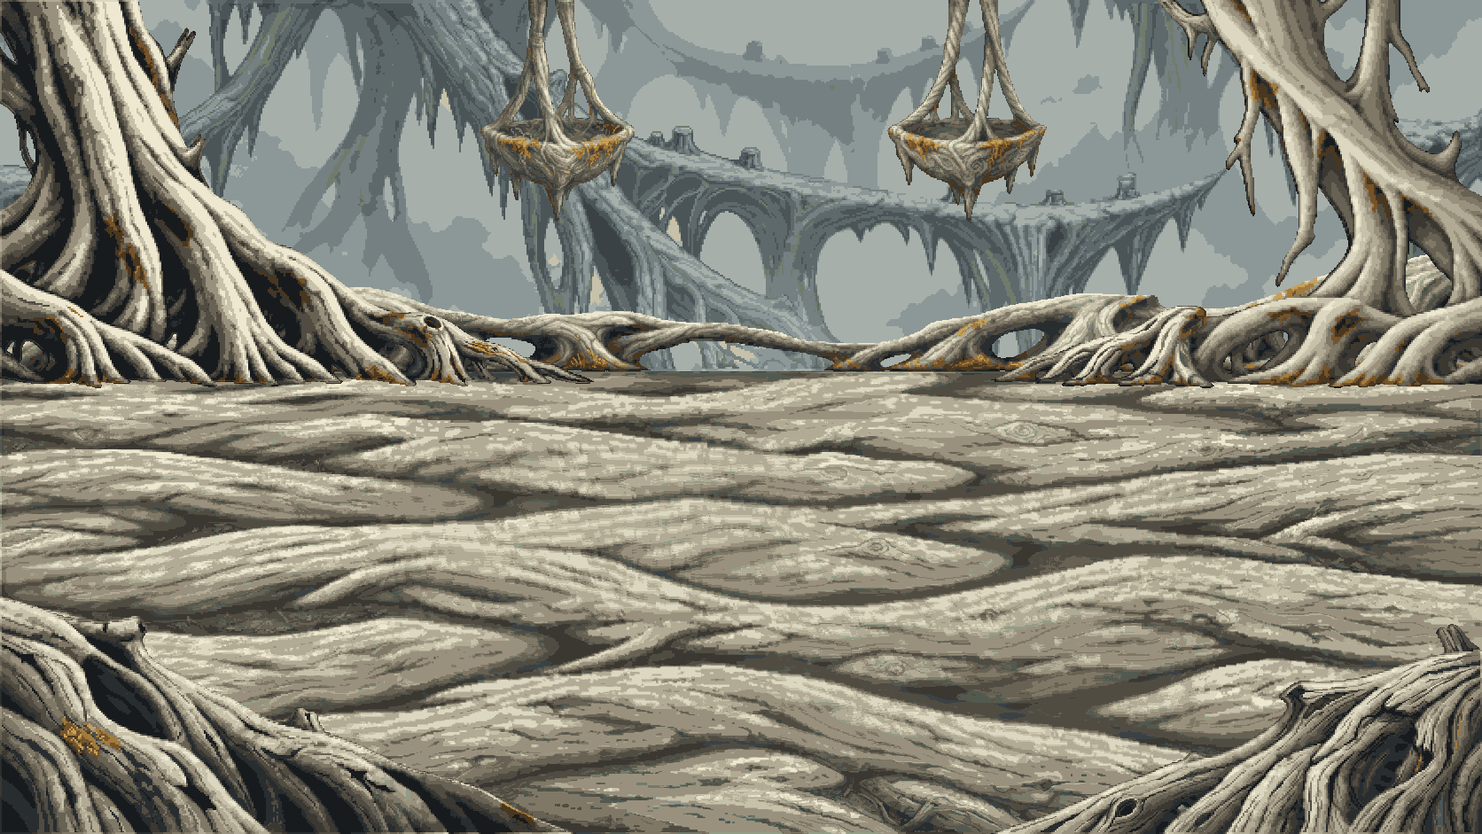
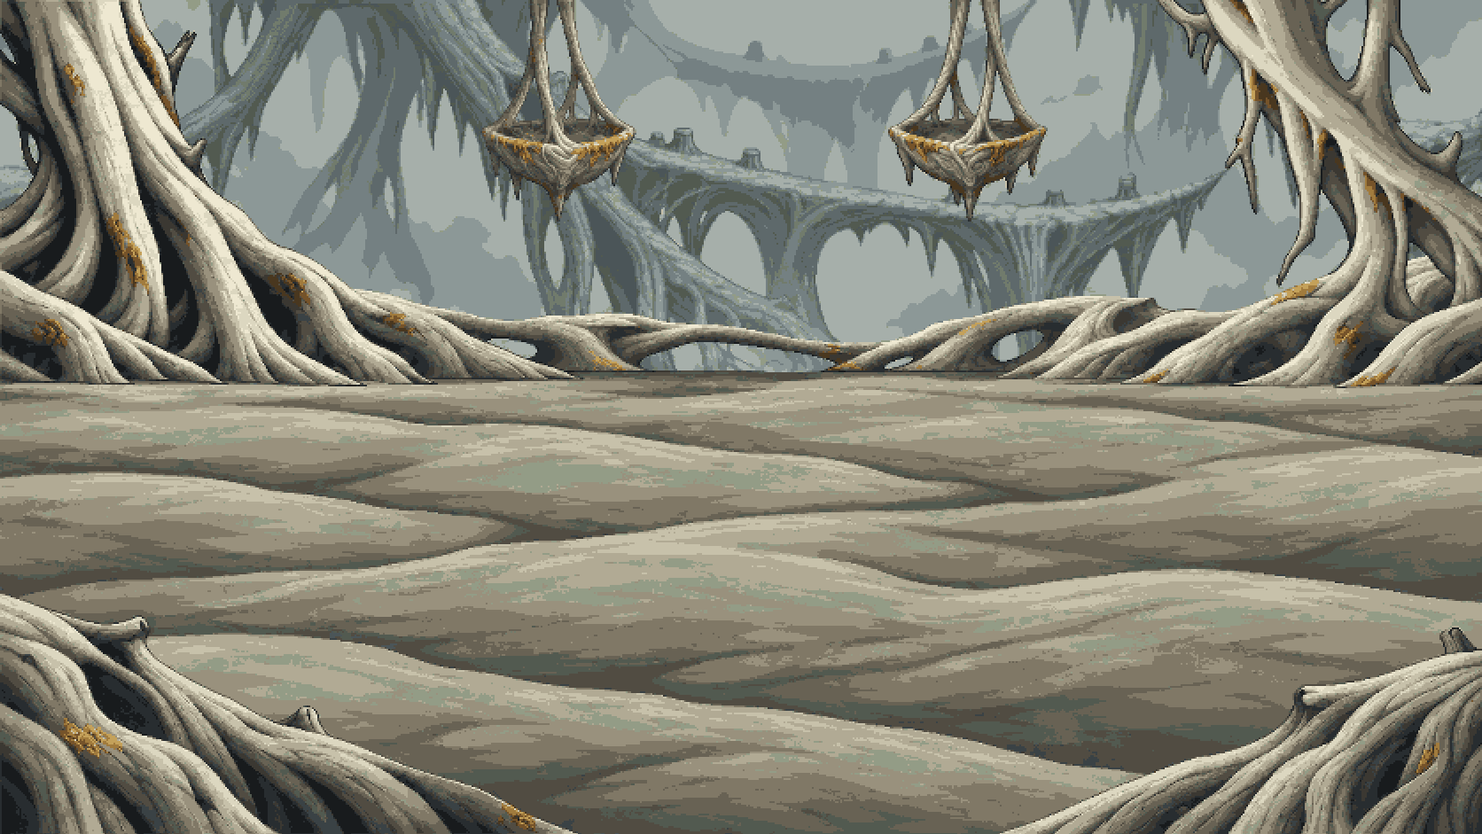
Atlas bosses all use roster bodies, eight new looks, regional door seals, act 3 4 5 8 floor cleanup
Made in Codex on the same worktree. All 45 atlas map bosses draw a roster body, 22 of them through wears; new base poses for two guardians, five league bosses and breach-venom; root door frames recoloured per region (68 PNG); act 3, 4 and 5 room pictures redrawn with calmer floors and act 8 without floor cloth.

diff --git a/data/atlas.js b/data/atlas.js
@@ -39,38 +39,38 @@ const ATLAS = Object.freeze({
     // [이름, 등급, 보스, 액트 지도(1~10, 그려 둔 지도를 다시 씀 — js/exploration-layouts.js), 보스 외형(액트 보스 0~9)] — 지역마다 칸 0~8 순서.
     nodes: Object.freeze({
         roots: [
-            ['이끼 낀 뿌리굴', 1, '뿌리굴 파수꾼', 1, 0], ['젖은 수맥', 2, '수맥의 탐식자', 5, 3],
-            ['균사 동굴', 4, '균사 여왕', 4, 5], ['가라앉은 뿌리길', 5, '늪뿌리 수문장', 3, 2],
-            ['부식된 저장고', 7, '부패 저장관', 6, 7], ['고목의 무덤', 9, '무덤 수호목', 7, 1],
+            ['이끼 낀 뿌리굴', 1, '검은 뿌리의 잔영', 1, 0], ['젖은 수맥', 2, '수맥의 탐식자', 5, 3],
+            ['균사 동굴', 4, '독무 정원의 포자어미', 4, 5], ['가라앉은 뿌리길', 5, '늪뿌리 수문장', 3, 2],
+            ['부식된 저장고', 7, '밑거름의 잔재', 6, 7], ['고목의 무덤', 9, '땅속 군주의 잔영', 7, 1],
             ['검은 수액 샘', 11, '검은 샘의 주인', 5, 8], ['심근 갱도', 13, '심근 파괴자', 1, 6],
             ['뿌리의 심장', 15, '뿌리 심장의 망령', 10, 9]
         ],
         trunk: [
-            ['껍질 틈새', 1, '틈새 사냥꾼', 7, 1], ['나이테 회랑', 3, '나이테 기록관', 4, 4],
-            ['옹이 요새', 4, '옹이 성주', 6, 6], ['송진 폭포', 6, '송진 거인', 7, 2],
-            ['벌레 먹은 통로', 8, '천공 여왕', 4, 5], ['쪼개진 줄기', 10, '쪼개진 기사', 7, 0],
+            ['껍질 틈새', 1, '틈새 사냥꾼', 7, 1], ['나이테 회랑', 3, '나이테를 엮는 잔영', 4, 4],
+            ['옹이 요새', 4, '미궁의 옹이 수호자', 6, 6], ['송진 폭포', 6, '길잃은 성핵 거신', 7, 2],
+            ['벌레 먹은 통로', 8, '천공 여왕', 4, 5], ['쪼개진 줄기', 10, '무딘 날의 잔향', 7, 0],
             ['수관 승강로', 12, '승강로 감시자', 3, 7], ['벼락 맞은 심재', 14, '벼락의 흔적', 8, 8],
             ['줄기의 옥좌', 16, '줄기 옥좌의 군주', 10, 9]
         ],
         canopy: [
-            ['바람 부는 우듬지', 2, '우듬지 매', 3, 3], ['새둥지 마을', 3, '둥지의 어미', 9, 1],
-            ['흔들다리', 4, '다리지기', 3, 0], ['구름 과수원', 5, '과수원 허수아비', 9, 4],
-            ['번개 가지', 8, '뇌운 정령', 8, 8], ['떠도는 잎섬', 9, '잎섬 방랑자', 3, 2],
-            ['별 맺힌 가지 끝', 12, '별가지 사수', 10, 6], ['폭풍 둥지', 13, '폭풍의 어미새', 8, 7],
+            ['바람 부는 우듬지', 2, '우듬지 매', 3, 3], ['새둥지 마을', 3, '둥지를 지키는 그리핀', 9, 1],
+            ['흔들다리', 4, '십자 회랑의 잔영', 3, 0], ['구름 과수원', 5, '나무꾼의 흐릿한 잔상', 9, 4],
+            ['번개 가지', 8, '뇌운 정령', 8, 8], ['떠도는 잎섬', 9, '떠도는 창공 거신', 3, 2],
+            ['별 맺힌 가지 끝', 12, '폭풍군단의 척후장', 10, 6], ['폭풍 둥지', 13, '폭풍의 어미새', 8, 7],
             ['하늘 꼭대기 제단', 16, '꼭대기 제사장', 5, 9]
         ],
         garden: [
-            ['무너진 온실', 1, '온실 정원사', 2, 2], ['가시덤불 미로', 2, '덤불 왕', 4, 5],
-            ['시든 분수대', 3, '분수의 망령', 6, 3], ['불탄 과수원', 6, '잿불 과수지기', 9, 4],
-            ['석상 정원', 7, '석상 지휘관', 6, 6], ['잿빛 화원', 10, '잿빛 화원사', 2, 0],
-            ['봉인된 식물원', 11, '식물원 관리자', 4, 7], ['불꽃 덩굴 성벽', 14, '덩굴 성벽의 기사', 6, 8],
+            ['무너진 온실', 1, '정원사의 흐린 메아리', 2, 2], ['가시덤불 미로', 2, '덤불 왕', 4, 5],
+            ['시든 분수대', 3, '분수의 망령', 6, 3], ['불탄 과수원', 6, '과수원의 불씨군주', 9, 4],
+            ['석상 정원', 7, '칼날 회랑의 석상 수호자', 6, 6], ['잿빛 화원', 10, '시든 화원의 갉는 자', 2, 0],
+            ['봉인된 식물원', 11, '빛바랜 관측자의 잔영', 4, 7], ['불꽃 덩굴 성벽', 14, '덩굴 성벽의 기사', 6, 8],
             ['정원사의 무덤', 15, '첫 정원사', 6, 9]
         ],
         sanctum: [
-            ['서리 내린 참배길', 2, '참배길 순례자', 5, 1], ['얼어붙은 회랑', 3, '회랑 파수병', 4, 3],
-            ['고요한 예배당', 4, '침묵의 사제', 5, 4], ['수정 납골당', 5, '납골당 지기', 4, 2],
+            ['서리 내린 참배길', 2, '참배길 순례자', 5, 1], ['얼어붙은 회랑', 3, '서리여제의 잔상', 4, 3],
+            ['고요한 예배당', 4, '빛바랜 태양의 사제', 5, 4], ['수정 납골당', 5, '납골당의 시간 파수꾼', 4, 2],
             ['봉인 서고', 6, '서고 사서', 4, 5], ['빙결 재판정', 9, '빙결 재판관', 8, 6],
-            ['잠든 수도원', 10, '수도원장', 5, 0], ['서리 왕관의 전당', 13, '서리 왕관', 10, 8],
+            ['잠든 수도원', 10, '잠든 삼원 제단', 5, 0], ['서리 왕관의 전당', 13, '서리 왕관', 10, 8],
             ['성소의 잠든 눈', 14, '잠든 눈의 수호자', 8, 9]
         ]
     }),
@@ -192,11 +192,11 @@ const ATLAS = Object.freeze({
     // 지역 수호자: 지역의 가장 안쪽 노드(칸 7 · 8)와 이어진 투기장. [보스 이름, 처치마다 주는 정점 파편(뿌리 입장권, null = 가장 적은 것), 보스 외형].
     // 수호자 지도석은 그 지역 13등급 이상 지도의 보스가 떨어뜨린다(수호자 노드가 열려 있을 때).
     guardians: Object.freeze({
-        roots: Object.freeze(['수호자 「검은 뿌리」', 'uberRootTicketChaos', 9]),
-        trunk: Object.freeze(['수호자 「나이테 왕」', null, 7]),
-        canopy: Object.freeze(['수호자 「폭풍 날개」', 'uberRootTicketStorm', 8]),
-        garden: Object.freeze(['수호자 「잿불 정원사」', 'uberRootTicketFlame', 4]),
-        sanctum: Object.freeze(['수호자 「서리 눈」', 'uberRootTicketFrost', 3])
+        roots: Object.freeze(['수호자 「검은 뿌리」', 'uberRootTicketChaos', 9, 'guardian-roots']),
+        trunk: Object.freeze(['수호자 「나이테 왕」', null, 7, 'guardian-trunk']),
+        canopy: Object.freeze(['수호자 「폭풍 날개」', 'uberRootTicketStorm', 8, 'guardian-canopy']),
+        garden: Object.freeze(['수호자 「잿불 정원사」', 'uberRootTicketFlame', 4, 'guardian-garden']),
+        sanctum: Object.freeze(['수호자 「서리 눈」', 'uberRootTicketFrost', 3, 'guardian-sanctum'])
     }),
     guardianRules: Object.freeze({ tier: 16, minTier: 13, dropChance: 0.15, hpMul: 2.5, damageMul: 1.3, radius: 9 }),
     // 정점: 뿌리 입장권 4종을 하나씩 바쳐 여는 세계수의 그림자(3단계 보스). 처치마다 씨앗 하나(최대 4).

diff --git a/data/stage-regions.js b/data/stage-regions.js
@@ -15,7 +15,7 @@
 //           2026-10-30 액트 2~10은 PixelLab Pro로 다시 그린 묶음(재질 A02~A10, 정예와 보스 방 그림)이다(--act-rework).
 const STAGE_REGIONS = Object.freeze({
     path: 'assets/stage-scenes/regions/',
-    version: 'bc1e50c714',
+    version: '59193e8549',
     fit: Object.freeze({ width: 1280, height: 720, floorBottom: 536, margin: 192 }),
     families: Object.freeze({
         F01: Object.freeze({
@@ -85,13 +85,13 @@ const STAGE_REGIONS = Object.freeze({
     regions: Object.freeze({
         'act-02': Object.freeze({ name: '액트 2, 가지치기의 중정', width: 1672, height: 941, ground: 392, door: 0.5, family: 'A02', sky: '#90774e', earth: '#534331', normal: Object.freeze([0, 6]), elite: Object.freeze([2, 0]), boss: Object.freeze([3]), bossSide: 'east', rooms: Object.freeze({ elite: 'act-02-elite', boss: 'act-02-boss' }) }),
         'rift-past': Object.freeze({ name: '시간의 균열, 과거', width: 1672, height: 941, ground: 392, door: 0.5, family: 'F01', sky: '#7a5f44', earth: '#2c2724', normal: Object.freeze([0, 6]), elite: Object.freeze([2, 0]), boss: Object.freeze([3]), bossSide: 'east' }),
-        'act-03': Object.freeze({ name: '액트 3, 허공뿌리 현수림', width: 1672, height: 941, ground: 418, door: 0.5, family: 'A03', sky: '#838984', earth: '#6a665a', normal: Object.freeze([1, 6]), elite: Object.freeze([2, 0]), boss: Object.freeze([]), bossSide: 'east', rooms: Object.freeze({ elite: 'act-03-elite', boss: 'act-03-boss' }) }),
-        'act-04': Object.freeze({ name: '액트 4, 갈림뿌리 미궁', width: 1671, height: 941, ground: 392, door: 0.27, family: 'A04', sky: '#555246', earth: '#454139', normal: Object.freeze([1, 6]), elite: Object.freeze([2, 0]), boss: Object.freeze([]), bossSide: 'east', rooms: Object.freeze({ elite: 'act-04-elite', boss: 'act-04-boss' }) }),
-        'act-05': Object.freeze({ name: '액트 5, 지주근의 침묵 성소', width: 1672, height: 941, ground: 398, door: 0.62, family: 'A05', sky: '#62516b', earth: '#5b5661', normal: Object.freeze([0, 6]), elite: Object.freeze([2, 1]), boss: Object.freeze([]), bossSide: 'west', rooms: Object.freeze({ elite: 'act-05-elite', boss: 'act-05-boss' }) }),
+        'act-03': Object.freeze({ name: '액트 3, 허공뿌리 현수림', width: 1672, height: 941, ground: 418, door: 0.5, family: 'A03', sky: '#848a84', earth: '#5d5c52', normal: Object.freeze([1, 6]), elite: Object.freeze([2, 0]), boss: Object.freeze([]), bossSide: 'east', rooms: Object.freeze({ elite: 'act-03-elite', boss: 'act-03-boss' }) }),
+        'act-04': Object.freeze({ name: '액트 4, 갈림뿌리 미궁', width: 1671, height: 941, ground: 392, door: 0.27, family: 'A04', sky: '#605d4f', earth: '#4f4c42', normal: Object.freeze([1, 6]), elite: Object.freeze([2, 0]), boss: Object.freeze([]), bossSide: 'east', rooms: Object.freeze({ elite: 'act-04-elite', boss: 'act-04-boss' }) }),
+        'act-05': Object.freeze({ name: '액트 5, 지주근의 침묵 성소', width: 1672, height: 941, ground: 398, door: 0.62, family: 'A05', sky: '#55475f', earth: '#3b3743', normal: Object.freeze([0, 6]), elite: Object.freeze([2, 1]), boss: Object.freeze([]), bossSide: 'west', rooms: Object.freeze({ elite: 'act-05-elite', boss: 'act-05-boss' }) }),
         'act-06': Object.freeze({ name: '액트 6, 가지치기의 중정, 재방문', width: 1672, height: 941, ground: 392, door: 0.5, family: 'A06', sky: '#61666b', earth: '#413e3d', normal: Object.freeze([1, 7]), elite: Object.freeze([2, 1]), boss: Object.freeze([]), bossSide: 'east', rooms: Object.freeze({ elite: 'act-06-elite', boss: 'act-06-boss' }) }),
         'rift-future': Object.freeze({ name: '시간의 균열, 미래', width: 1672, height: 941, ground: 392, door: 0.5, family: 'F01', sky: '#594f5e', earth: '#2f2524', normal: Object.freeze([1, 7]), elite: Object.freeze([2, 1]), boss: Object.freeze([3]), bossSide: 'east' }),
         'act-07': Object.freeze({ name: '액트 7, 말라가는 큰 줄기', width: 1672, height: 941, ground: 453, door: 0.5, family: 'A07', sky: '#7c776b', earth: '#696358', normal: Object.freeze([0, 1]), elite: Object.freeze([2, 6]), boss: Object.freeze([]), bossSide: 'west', rooms: Object.freeze({ elite: 'act-07-elite', boss: 'act-07-boss' }) }),
-        'act-08': Object.freeze({ name: '액트 8, 끝없는 장막의 줄기', width: 1672, height: 941, ground: 405, door: 0.38, family: 'A08', sky: '#a69c9a', earth: '#6c6364', normal: Object.freeze([0]), elite: Object.freeze([2, 6]), boss: Object.freeze([]), bossSide: 'west', rooms: Object.freeze({ elite: 'act-08-elite', boss: 'act-08-boss' }) }),
+        'act-08': Object.freeze({ name: '액트 8, 끝없는 장막의 줄기', width: 1672, height: 941, ground: 405, door: 0.38, family: 'A08', sky: '#a69c9a', earth: '#786e6f', normal: Object.freeze([0]), elite: Object.freeze([2, 6]), boss: Object.freeze([]), bossSide: 'west', rooms: Object.freeze({ elite: 'act-08-elite', boss: 'act-08-boss' }) }),
         'act-09': Object.freeze({ name: '액트 9, 비탄의 교차', width: 1672, height: 941, ground: 449, door: 0.27, family: 'A09', sky: '#b9a579', earth: '#6e5c46', normal: Object.freeze([1, 6]), elite: Object.freeze([2, 0]), boss: Object.freeze([]), bossSide: 'east', rooms: Object.freeze({ elite: 'act-09-elite', boss: 'act-09-boss' }) }),
         'act-10': Object.freeze({ name: '액트 10, 합일의 차륜', width: 1672, height: 941, ground: 420, door: 0.2, family: 'A10', sky: '#908173', earth: '#b9a983', normal: Object.freeze([0]), elite: Object.freeze([2]), boss: Object.freeze([3]), bossSide: 'west', rooms: Object.freeze({ general: 'act-10-general', elite: 'act-10-elite' }) }),
         'trial-01': Object.freeze({ name: '1차 시련, 칼날 회랑', width: 1672, height: 941, ground: 449, door: 0.52, family: 'F04', sky: '#443637', earth: '#433331', normal: Object.freeze([0, 6]), elite: Object.freeze([2]), boss: Object.freeze([3]), bossSide: 'east' }),

diff --git a/data/atlas-endgame.js b/data/atlas-endgame.js
@@ -180,7 +180,7 @@ const ATLAS_ENDGAME = Object.freeze({
     // need는 제단 재료(잉걸 10)와 지도 수가 비슷하도록: 방이 제단보다 드물고(5~9 %), 방마다 조각 3 + 0.15 × 등급.
     leagues: Object.freeze([
         Object.freeze({
-            id: 'league_breach', room: 'breach', name: '공허 균열', boss: '공허를 여는 자', act: 8, bossAct: 7, ele: 'chaos', tier: 16,
+            id: 'league_breach', room: 'breach', name: '공허 균열', boss: '공허를 여는 자', act: 8, bossAct: 7, ele: 'chaos', tier: 16, bodyVisual: 'league_breach',
             how: '지도 속 공허 균열을 비우면 공허 조각을 줍니다.',
             item: 'voidSplinter', need: 12, shards: Object.freeze([3, 0.15]), hpMul: 3.5, damageMul: 1.45,
             stages: Object.freeze([
@@ -200,7 +200,7 @@ const ATLAS_ENDGAME = Object.freeze({
             rewards: Object.freeze([['venomStinger', 3], ['enchantedHoney', 1], ['pollen', 30]]), unique: '벌집 여왕의 명령'
         }),
         Object.freeze({
-            id: 'league_treasure', room: 'treasure', name: '보물 방', boss: '금고지기', act: 4, bossAct: 3, ele: 'phys', tier: 16,
+            id: 'league_treasure', room: 'treasure', name: '보물 방', boss: '금고지기', act: 4, bossAct: 3, ele: 'phys', tier: 16, bodyVisual: 'league_treasure',
             how: '지도 속 보물 방을 비우면 금고 열쇠 조각을 줍니다.',
             item: 'vaultKey', need: 12, shards: Object.freeze([3, 0.15]), hpMul: 3.5, damageMul: 1.45,
             stages: Object.freeze([
@@ -222,7 +222,7 @@ const ATLAS_ENDGAME = Object.freeze({
         // 루프 30 뒤 방 넷(2026-10-09): 그 방의 지역 투기장(act)과 원소, 18등급. 카드는 방이 나오는 루프(minLoop)부터 열린다
         // (js/atlas-endgame.js unlocked). 고유는 이 우두머리만 준다(data/items.js 리그 우두머리 고유).
         Object.freeze({
-            id: 'league_ember', room: 'emberField', name: '잿불 터', boss: '잿불 군주', act: 2, bossAct: 4, ele: 'fire', tier: 18,
+            id: 'league_ember', room: 'emberField', name: '잿불 터', boss: '잿불 군주', act: 2, bossAct: 4, ele: 'fire', tier: 18, bodyVisual: 'league_ember',
             how: '지도 속 잿불 터를 비우면 타다 남은 불씨를 줍니다.',
             item: 'emberCinder', need: 12, shards: Object.freeze([3, 0.15]), hpMul: 3.6, damageMul: 1.45,
             stages: Object.freeze([
@@ -232,7 +232,7 @@ const ATLAS_ENDGAME = Object.freeze({
             rewards: Object.freeze([['burningEmberBranch', 2], ['emberBranch', 8], ['goldenRule', 1]]), unique: '잿불 군주의 심장'
         }),
         Object.freeze({
-            id: 'league_sap', room: 'sapWound', name: '수액 상처', boss: '호박 거인', act: 7, bossAct: 6, ele: 'phys', tier: 18,
+            id: 'league_sap', room: 'sapWound', name: '수액 상처', boss: '호박 거인', act: 7, bossAct: 6, ele: 'phys', tier: 18, bodyVisual: 'league_sap',
             how: '지도 속 수액 상처를 비우면 굳은 수액 방울을 줍니다.',
             item: 'amberDrop', need: 12, shards: Object.freeze([3, 0.15]), hpMul: 3.6, damageMul: 1.45,
             stages: Object.freeze([
@@ -242,7 +242,7 @@ const ATLAS_ENDGAME = Object.freeze({
             rewards: Object.freeze([['catalystCrit', 2], ['catalystSummon', 1], ['sapBud', 2]]), unique: '호박에 갇힌 시간'
         }),
         Object.freeze({
-            id: 'league_withered', room: 'witheredGarden', name: '시든 정원', boss: '시든 꽃의 여왕', act: 1, bossAct: 0, ele: 'chaos', tier: 18,
+            id: 'league_withered', room: 'witheredGarden', name: '시든 정원', boss: '시든 꽃의 여왕', act: 1, bossAct: 0, ele: 'chaos', tier: 18, bodyVisual: 'league_withered',
             how: '지도 속 시든 정원을 비우면 시든 꽃잎을 줍니다.',
             item: 'witheredPetal', need: 12, shards: Object.freeze([3, 0.15]), hpMul: 3.6, damageMul: 1.45,
             stages: Object.freeze([

diff --git a/data/monster-stage-roster.js b/data/monster-stage-roster.js
@@ -12,11 +12,25 @@
 const MONSTER_STAGE_ROSTER = Object.freeze({
     path: 'assets/enemies/roster/',
     /** 그림 묶음의 지문: 그림을 이 값과 함께 불러, 칸이 바뀐 그림을 브라우저가 예전 것으로 쓰지 않게 한다. */
-    version: 'cerberus-body-20261029',
+    version: 'fef532140c',
     /** 제 새 그림이 아직 없어 다른 외형의 그림을 빌려 입는 외형(위습: 같은 속성의 새 그림). */
-    wears: Object.freeze({ 'meteor-shard': 'cosmos-star', 'meteor-melt': 'cosmos-ooze', 'meteor-sentinel': 'cosmos-sentinel', 'cerberus-head': 's6_beast_cerberus', 'cerberus-fang': 's6_beast_cerberus' }),
+    wears: Object.freeze({ 'meteor-shard': 'cosmos-star', 'meteor-melt': 'cosmos-ooze', 'meteor-sentinel': 'cosmos-sentinel', 'cerberus-head': 's6_beast_cerberus', 'cerberus-fang': 's6_beast_cerberus',
+        'atlas-roots-0': 'guardian-roots', 'atlas-roots-2': 'trial_3', 'atlas-roots-4': 'apex_compost', 'atlas-roots-5': 'realm_underking',
+        'atlas-trunk-1': 'apex_weaver', 'atlas-trunk-2': 'labyrinth_guardian', 'atlas-trunk-3': 'realm_colossus', 'atlas-trunk-5': 'rival_dull',
+        'atlas-canopy-1': 'sky-griffin', 'atlas-canopy-2': 'trial_4', 'atlas-canopy-3': 'woodsman_echo', 'atlas-canopy-5': 'realm_titan', 'atlas-canopy-6': 's2_boss_storm',
+        'atlas-garden-0': 'apex_gardener', 'atlas-garden-3': 's2_boss_flame', 'atlas-garden-4': 'trial_1', 'atlas-garden-5': 'apex_devourer', 'atlas-garden-6': 'pinnacle_observer',
+        'atlas-sanctum-1': 's2_boss_frost', 'atlas-sanctum-2': 'apex_archbishop', 'atlas-sanctum-3': 'time_rift_guardian', 'atlas-sanctum-6': 'trial_2'
+    }),
     // [id, 이름, 칸 가로, 칸 세로, 발 x, 발 y, 몸 높이, 몸 너비, 걸음새, 걷기, 공격, 품, 쓰러짐, 특수 공격]
     actors: Object.freeze(Object.fromEntries([
+        ["guardian-trunk","수호자 「나이테 왕」",223,183,111,178,175,215,"legs",[1,1,1000,"time"],null,[107,108],null],
+        ["guardian-garden","수호자 「잿불 정원사」",221,176,110,171,168,213,"legs",[1,1,1000,"time"],null,[106,107],null],
+        ["league_breach","공허를 여는 자",193,188,96,183,180,185,"float",[1,1,1000,"time"],null,[92,93],null],
+        ["league_treasure","금고지기",214,165,107,160,157,206,"legs",[1,1,1000,"time"],null,[103,103],null],
+        ["league_ember","잿불 군주",213,195,106,190,187,205,"legs",[1,1,1000,"time"],null,[102,103],null],
+        ["league_sap","호박 거인",251,179,125,174,171,243,"legs",[1,1,1000,"time"],null,[121,122],null],
+        ["league_withered","시든 꽃의 여왕",162,186,81,181,178,154,"float",[1,1,1000,"time"],null,[77,77],null],
+        ["breach-venom","독낭 파열체",147,104,73,99,96,139,"crawl",[1,1,1000,"time"],[1,1,180,0],[69,70],null],
         ['famine_beast', '기근의 맹수', 226, 140, 114, 135, 133, 201, 'legs', [6, 6, [133.33, 133.33, 133.33, 133.33, 133.33, 133.33], 'stride'], [6, 6, [200, 166.67, 166.67, 83.33, 116.67, 200], 3], [100, 101], null],
         ['league_nursery', '묘목장의 어미나무', 284, 185, 91, 183, 180, 234, 'legs', [8, 8, [110, 110, 110, 110, 110, 110, 110, 110], 'stride'], [6, 6, [160, 130, 170, 70, 110, 220], 3], [74, 150], null],
         ['bossAct1', '썩은갈기의 잔뿌리', 296, 137, 138, 134, 130, 245, 'legs', [6, 6, [133.33, 133.33, 133.33, 133.33, 133.33, 133.33], 'stride'], [6, 6, [200, 166.67, 166.67, 83.33, 116.67, 200], 3], [135, 111], [4, 4, [200, 130, 150, 850], 215, 135, 107, 133]],

diff --git a/js/canvas-stage-door-marks.js b/js/canvas-stage-door-marks.js
@@ -7,7 +7,8 @@ const stageDoorMarks = (() => {
     const INK = Object.freeze({ open: '#f3e5b4', gate: '#ff7a66', shade: '#1b171c' });
     const seals = new WeakMap(); // 탐험마다 현재 방의 연출만 기억한다. 저장·통행 상태에는 쓰지 않는다.
     const opened = new WeakMap(); // 탐험마다 한 번이라도 열린 채로 본 문(id). 저장하지 않는다.
-    const sheets = new Map();     // 'front' | 'side' → Image
+    const sheets = new Map();     // Only the current region's front/side images.
+    let sheetRegion = '';
     const fades = new WeakMap(); // door -> visual opacity; never saved or used for passage.
     const FADE = Object.freeze({ alpha: .3, ms: 120, enter: .2, leave: .12 });
     let marks = []; // This frame's visible open-door marks, including ones moved away from the log/screen edge.
@@ -22,10 +23,17 @@ const stageDoorMarks = (() => {
     }
     /** 그 쪽의 문이 쓰는 시트: 앞뒤 문은 정면, 좌우 문은 옆에서 본 그림. */
     const sheetOf = side => (side === 'west' || side === 'east' ? 'side' : 'front');
+    /** Match the actual room backdrop (atlas and content maps also carry region). */
+    function sealRegion() {
+        const run = actExplorationState.current(game), map = run && actExplorationMap.forRun(run);
+        return map && STAGE_REGIONS.regions[map.region] ? map.region : 'root';
+    }
     /** 그 시트의 그림: 다 불러왔으면 그림, 아니면 null(처음 부를 때 불러오기 시작한다). */
     function sheetImage(kind) {
+        const region = sealRegion();
+        if (region !== sheetRegion) { sheets.clear(); shadedSeals.clear(); sheetRegion = region; }
         if (!sheets.has(kind)) {
-            const image = new Image(), file = STAGE_ROOMS.rootSeal[kind].file;
+            const image = new Image(), file = `${STAGE_ROOMS.rootSeal.regionPath}${region}-${kind}.png?v=${STAGE_ROOMS.rootSeal.version}`;
             image.decoding = 'async';
             image.onerror = () => console.warn('Root seal image failed to load:', file);
             image.src = file;
@@ -39,7 +47,7 @@ const stageDoorMarks = (() => {
         const front = sheetImage('front'), side = sheetImage('side');
         return !!front && !!side;
     }
-    const shadedSeals = new Map(); // Two sheet kinds × (no ocean shade or either fixed deep-water shade): at most six sheets.
+    const shadedSeals = new Map(); // Current region only; at most six shaded sheets, cleared on region changes.
     function shadedSeal(kind, image, shade) {
         const key = kind + '|' + shade;
         if (!shadedSeals.has(key)) {

diff --git a/js/atlas.js b/js/atlas.js
@@ -10,9 +10,9 @@ const atlas = (() => {
     })));
     // A guardian closes each region's innermost pair (slots 7 · 8); the pinnacle sits in the centre, opened with the four tickets.
     const GUARDIANS = ATLAS.regions.map((region, regionIndex) => {
-        const [name, ticket, bossAct] = ATLAS.guardians[region.id];
+        const [name, ticket, bossAct, bossVisualId] = ATLAS.guardians[region.id];
         return Object.freeze({ id: `${region.id}_g`, kind: 'guardian', region: region.id, regionIndex, slot: 9, name, tier: ATLAS.guardianRules.tier,
-            boss: name, arena: true, act: region.act, bossAct, ele: region.ele, ticket });
+            boss: name, arena: true, act: region.act, bossAct, bossVisualId, ele: region.ele, ticket });
     });
     const PINNACLE = Object.freeze({ id: 'pinnacle', kind: 'pinnacle', region: null, regionIndex: -1, slot: -1, name: ATLAS.pinnacle.name,
         tier: ATLAS.guardianRules.tier, boss: ATLAS.pinnacle.boss, arena: true, act: ATLAS.pinnacle.act, bossAct: ATLAS.pinnacle.bossAct, ele: 'chaos' });

diff --git a/data/bosses.js b/data/bosses.js
@@ -9,9 +9,9 @@ const BOSS_BODY_ELEMENTS = Object.freeze({
     'atlas-sanctum-4': 'light', 'atlas-sanctum-5': 'cold',
     'meteor-heart': 'fire'
 });
-/** 아틀라스 지도 보스 가운데 제 몸(로스터 그림)으로 그리는 넷: 2026-10-22 검토한 몬스터 묶음의 지도 보스다. 나머지 지도, 수호자, 정점의
- * 몸은 크기와 정체성 결정을 기다려(2026-10-20 보스 그림 검토) 액트 보스 그림 그대로다. */
-const ATLAS_BOSS_BODIES = Object.freeze(['atlas-garden-1', 'atlas-garden-2', 'atlas-sanctum-4', 'atlas-sanctum-5']);
+/** 지도 45종 모두 로스터 몸을 쓴다. 전용 그림이 없는 22종의 기존 보스 연결은 로스터 wears가 소유한다. */
+const ATLAS_BOSS_BODIES = Object.freeze(['roots', 'trunk', 'canopy', 'garden', 'sanctum']
+    .flatMap(region => Array.from({ length: 9 }, (_, slot) => `atlas-${region}-${slot}`)));
 
 
 const ACT_BOSS_ASSET_KEYS = [
